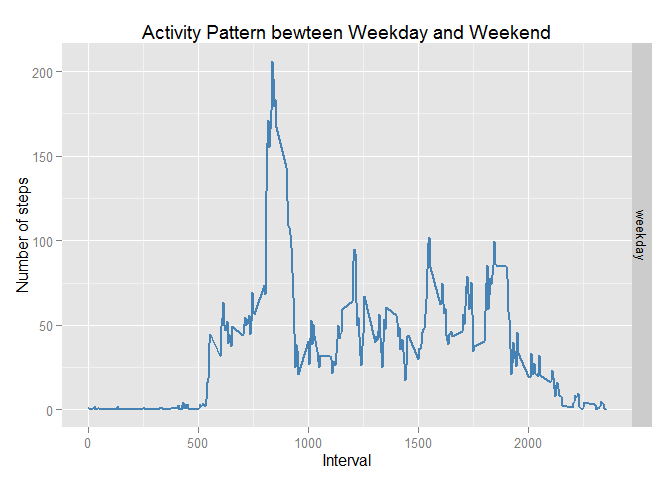
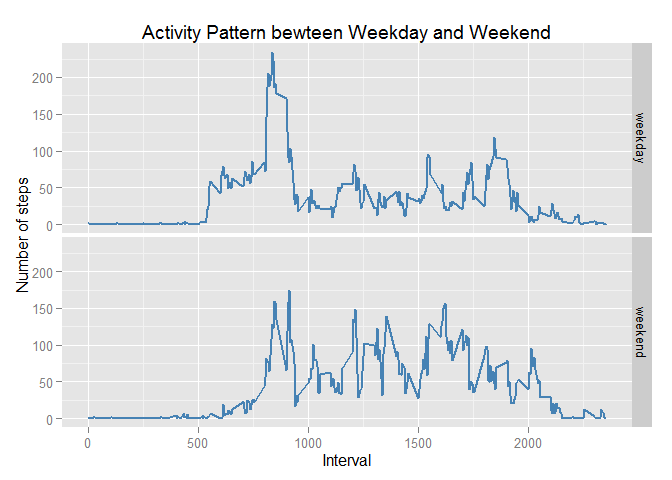
wenqian wang 17/05/2015

diff --git a/PA1_template.html b/PA1_template.html
@@ -77,18 +77,14 @@ activity$date &lt;- as.Date(activity$date, format=&quot;%Y-%m-%d&quot;)</code></
 </div>
 <div id="what-is-mean-total-number-of-steps-taken-per-day" class="section level2">
 <h2>What is mean total number of steps taken per day?</h2>
-<ol style="list-style-type: decimal">
-<li>Make a histogram of the total number of steps taken per day</li>
-</ol>
+<p>Make a histogram of the total number of steps taken per day</p>
 <pre class="r"><code>steps_per_day &lt;- aggregate(steps ~ date, activity, sum)
 colnames(steps_per_day) &lt;- c(&quot;date&quot;, &quot;steps&quot;)
 ggplot(steps_per_day, aes(x=date, y=steps)) +
 geom_histogram(fill=&quot;steelblue&quot; , stat=&quot;identity&quot;) +
 labs(title=&quot;Average Daily Activity Pattern&quot;, x=&quot;Interval&quot;, y=&quot;Number of steps&quot;) </code></pre>
[1 lines of base64/hex data omitted]
-<ol start="2" style="list-style-type: decimal">
-<li>Calculate the mean ad median of the total number pf steps taken per day</li>
-</ol>
+<p>Calculate the mean ad median of the total number pf steps taken per day</p>
 <pre class="r"><code>round(mean(steps_per_day$steps), 0)</code></pre>
 <pre><code>## [1] 10766</code></pre>
 <pre class="r"><code>round(median(steps_per_day$steps), 0)</code></pre>
@@ -96,60 +92,46 @@ labs(title=&quot;Average Daily Activity Pattern&quot;, x=&quot;Interval&quot;, y
 </div>
 <div id="what-is-the-average-daily-activity-pattern" class="section level2">
 <h2>What is the average daily activity pattern?</h2>
-<ol style="list-style-type: decimal">
-<li>Make a time series plot bewteen interval and average number of steps</li>
-</ol>
+<p>Make a time series plot bewteen interval and average number of steps</p>
 <pre class="r"><code>steps_per_interval &lt;- aggregate(steps ~ interval, activity, mean)
 steps_per_interval$interval = as.integer(levels(steps_per_interval$interval))[steps_per_interval$interval]
 ggplot(steps_per_interval, aes(x=interval, y=steps)) +
 geom_line(color=&quot;steelblue&quot;, size=1) +
 labs(title=&quot;Average Daily Activity Pattern&quot;, x=&quot;Interval&quot;, y=&quot;Number of steps&quot;) </code></pre>
[1 lines of base64/hex data omitted]
-<ol start="2" style="list-style-type: decimal">
-<li>Find the 5-min interval which contains the maximum number of steps</li>
-</ol>
+<p>Find the 5-min interval which contains the maximum number of steps</p>
 <pre class="r"><code>steps_per_interval$interval[which.max(steps_per_interval$steps)]</code></pre>
 <pre><code>## [1] 835</code></pre>
 </div>
 <div id="imputing-missing-values" class="section level2">
 <h2>Imputing missing values</h2>
-<ol style="list-style-type: decimal">
-<li>Calculate the total number of missing values in the dataset</li>
-</ol>
+<p>Calculate the total number of missing values in the dataset</p>
 <pre class="r"><code>sum(is.na(activity))</code></pre>
 <pre><code>## [1] 2304</code></pre>
-<ol start="2" style="list-style-type: decimal">
-<li>Replace the missing values with original mean value and creat a new dataset</li>
-</ol>
+<p>Replace the missing values with original mean value and creat a new dataset</p>
 <pre class="r"><code>activity2 &lt;- merge(activity, steps_per_interval, by = &quot;interval&quot;, suffixes = c(&quot;&quot;, &quot;.y&quot;))
 nas &lt;- is.na(activity2$steps)
 activity2$steps[nas] &lt;- activity2$steps.y[nas]
 activity2 &lt;- activity2[, c(1:3)]</code></pre>
-<ol start="3" style="list-style-type: decimal">
-<li>Make a histogram of the total number of steps taken per day</li>
-</ol>
+<p>Make a histogram of the total number of steps taken per day</p>
 <pre class="r"><code>steps_per_day2 &lt;- aggregate(steps ~ date, activity2, sum)
 colnames(steps_per_day2) &lt;- c(&quot;date&quot;, &quot;steps&quot;)
 ggplot(steps_per_day2, aes(x=date, y=steps)) +
 geom_histogram(fill=&quot;steelblue&quot;, stat=&quot;identity&quot;) +
 labs(title=&quot;Histogram of Steps Taken per Day&quot;, x=&quot;Number of Steps&quot;, y=&quot;Count&quot;) </code></pre>
[1 lines of base64/hex data omitted]
-<ol start="4" style="list-style-type: decimal">
-<li>Calculate the mean ad median of the total number pf steps taken per day</li>
-</ol>
+<p>Calculate the mean ad median of the total number pf steps taken per day</p>
 <pre class="r"><code>round(mean(steps_per_day2$steps), 0)</code></pre>
 <pre><code>## [1] 10766</code></pre>
 <pre class="r"><code>round(median(steps_per_day2$steps), 0)</code></pre>
 <pre><code>## [1] 10766</code></pre>
-<ol start="5" style="list-style-type: decimal">
-<li>There is no great difference between the estimates and the first part of this assignment. That is to say, the impact of imputing missing data on the estimates of the total daily number of steps in quite low.</li>
-</ol>
+<p>There is no great difference between the estimates and the first part of this assignment. That is to say, the impact of imputing missing data on the estimates of the total daily number of steps in quite low.</p>
 </div>
 <div id="are-there-differences-in-activity-patterns-between-weekdays-and-weekends" class="section level2">
 <h2>Are there differences in activity patterns between weekdays and weekends?</h2>
-<ol style="list-style-type: decimal">
-<li>Creat a new factor variable “dayofweek” in the dataset “activity”</li>
-</ol>
+<p>Creat a new factor variable “dayofweek” in the dataset “activity”</p>
+<pre class="r"><code>Sys.setlocale(&quot;LC_TIME&quot;, &quot;English&quot;)</code></pre>
+<pre><code>## [1] &quot;English_United States.1252&quot;</code></pre>
 <pre class="r"><code>dayofweek &lt;- function(date) {
   if (weekdays(as.Date(date)) %in% c(&quot;Saturday&quot;, &quot;Sunday&quot;)) {
     &quot;weekend&quot;
@@ -166,19 +148,14 @@ head(activity)</code></pre>
 ## 4    NA 2012-10-01       15   weekday
 ## 5    NA 2012-10-01       20   weekday
 ## 6    NA 2012-10-01       25   weekday</code></pre>
-<ol start="2" style="list-style-type: decimal">
-<li>Make a panel plot to compare the activity patterns between workdays and weekend</li>
-</ol>
-<pre class="r"><code>steps_daytype &lt;- aggregate(steps ~ interval+dayofweek, activity, mean)
+<p>Make a panel plot to compare the activity patterns between workdays and weekend</p>
+<pre class="r"><code>steps_daytype &lt;- aggregate(steps ~ (interval+dayofweek), activity, mean)
 steps_daytype$interval = as.integer(levels(steps_daytype$interval))[steps_daytype$interval]
 ggplot(steps_daytype, aes(x=interval, y=steps)) +
 facet_grid(dayofweek ~ .) +
 geom_line(color=&quot;steelblue&quot;, size=1) +
 labs(title=&quot;Activity Pattern bewteen Weekday and Weekend&quot;, x=&quot;Interval&quot;, y=&quot;Number of steps&quot;) </code></pre>
[1 lines of base64/hex data omitted]
-</div>
-<div id="the-end" class="section level2">
-<h2>the end</h2>
[1 lines of base64/hex data omitted]
 </div>
 
 

diff --git a/PA1_template.md b/PA1_template.md
@@ -19,7 +19,7 @@ activity$date <- as.Date(activity$date, format="%Y-%m-%d")
 
 
 ## What is mean total number of steps taken per day?
-1. Make a histogram of the total number of steps taken per day
+Make a histogram of the total number of steps taken per day
 
 ```r
 steps_per_day <- aggregate(steps ~ date, activity, sum)
@@ -31,7 +31,7 @@ labs(title="Average Daily Activity Pattern", x="Interval", y="Number of steps")
 
 ![](PA1_template_files/figure-html/unnamed-chunk-3-1.png) 
 
-2. Calculate the mean ad median of the total number pf steps taken per day
+Calculate the mean ad median of the total number pf steps taken per day
 
 ```r
 round(mean(steps_per_day$steps), 0)
@@ -50,7 +50,7 @@ round(median(steps_per_day$steps), 0)
 ```
 
 ## What is the average daily activity pattern?
-1. Make a time series plot bewteen interval and average number of steps 
+Make a time series plot bewteen interval and average number of steps 
 
 ```r
 steps_per_interval <- aggregate(steps ~ interval, activity, mean)
@@ -62,7 +62,7 @@ labs(title="Average Daily Activity Pattern", x="Interval", y="Number of steps")
 
 ![](PA1_template_files/figure-html/unnamed-chunk-5-1.png) 
 
-2. Find the 5-min interval which contains the maximum number of steps
+Find the 5-min interval which contains the maximum number of steps
 
 ```r
 steps_per_interval$interval[which.max(steps_per_interval$steps)]
@@ -73,7 +73,7 @@ steps_per_interval$interval[which.max(steps_per_interval$steps)]
 ```
 
 ## Imputing missing values
-1. Calculate the total number of missing values in the dataset
+Calculate the total number of missing values in the dataset
 
 ```r
 sum(is.na(activity))
@@ -83,7 +83,7 @@ sum(is.na(activity))
 ## [1] 2304
 ```
 
-2. Replace the missing values with original mean value and creat a new dataset
+Replace the missing values with original mean value and creat a new dataset
 
 ```r
 activity2 <- merge(activity, steps_per_interval, by = "interval", suffixes = c("", ".y"))
@@ -92,7 +92,7 @@ activity2$steps[nas] <- activity2$steps.y[nas]
 activity2 <- activity2[, c(1:3)]
 ```
 
-3. Make a histogram of the total number of steps taken per day
+Make a histogram of the total number of steps taken per day
 
 ```r
 steps_per_day2 <- aggregate(steps ~ date, activity2, sum)
@@ -104,7 +104,7 @@ labs(title="Histogram of Steps Taken per Day", x="Number of Steps", y="Count")
 
 ![](PA1_template_files/figure-html/unnamed-chunk-9-1.png) 
 
-4. Calculate the mean ad median of the total number pf steps taken per day
+Calculate the mean ad median of the total number pf steps taken per day
 
 ```r
 round(mean(steps_per_day2$steps), 0)
@@ -122,10 +122,18 @@ round(median(steps_per_day2$steps), 0)
 ## [1] 10766
 ```
 
-5. There is no great difference between the estimates and the first part of this assignment. That is to say, the impact of imputing missing data on the estimates of the total daily number of steps in quite low.
+There is no great difference between the estimates and the first part of this assignment. That is to say, the impact of imputing missing data on the estimates of the total daily number of steps in quite low.
 
 ## Are there differences in activity patterns between weekdays and weekends?
-1. Creat a new factor variable "dayofweek" in the dataset "activity"
+Creat a new factor variable "dayofweek" in the dataset "activity"
+
+```r
+Sys.setlocale("LC_TIME", "English")
+```
+
+```
+## [1] "English_United States.1252"
+```
 
 ```r
 dayofweek <- function(date) {
@@ -149,10 +157,10 @@ head(activity)
 ## 6    NA 2012-10-01       25   weekday
 ```
 
-2. Make a panel plot to compare the activity patterns between workdays and weekend
+Make a panel plot to compare the activity patterns between workdays and weekend
 
 ```r
-steps_daytype <- aggregate(steps ~ interval+dayofweek, activity, mean)
+steps_daytype <- aggregate(steps ~ (interval+dayofweek), activity, mean)
 steps_daytype$interval = as.integer(levels(steps_daytype$interval))[steps_daytype$interval]
 ggplot(steps_daytype, aes(x=interval, y=steps)) +
 facet_grid(dayofweek ~ .) +
@@ -162,4 +170,3 @@ labs(title="Activity Pattern bewteen Weekday and Weekend", x="Interval", y="Numb
 
 ![](PA1_template_files/figure-html/unnamed-chunk-12-1.png) 
 
-##the end
